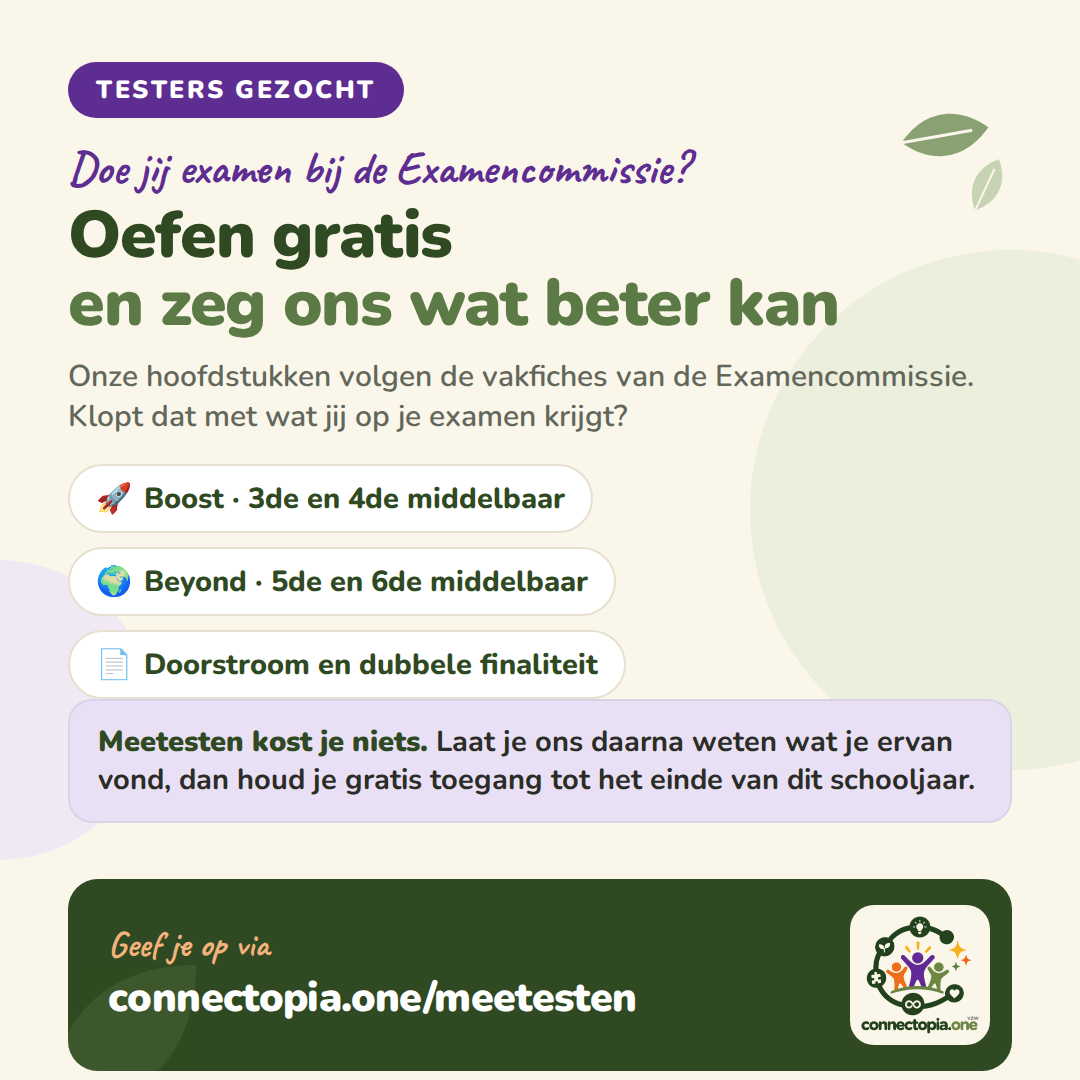
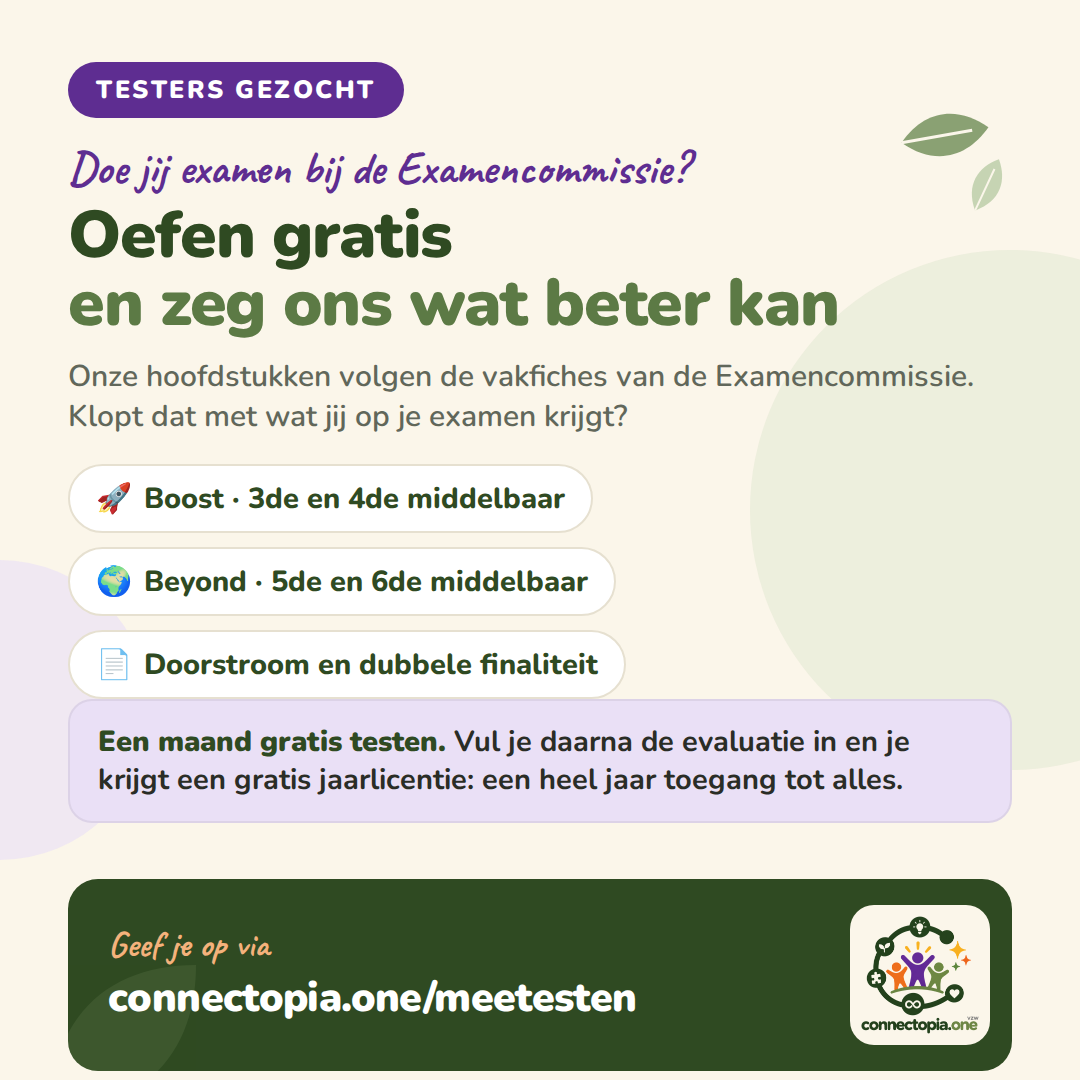
De afspraak voor de testers: een maand testen, dan een jaar gratis
Kim legde vast hoe het verloopt. Je test een maand lang, je vult daarna de
evaluatie in, en dan krijg je een gratis jaarlicentie. Dat staat nu zo op de
twee posts en in de drie stappen op de pagina.

Het kader eronder stond eerst in de ontkenning, "word je niet gekozen". Dat
is nu omgedraaid naar wie meteen alles wil: een jaarlicentie kost 20 euro
zolang we bouwen, vanaf volgend schooljaar 50 euro per gezin voor 1 tot 5
personen, en voor wie tijdelijk onderwijs aan huis geeft een licentie per
leerkracht voor maximaal 5 leerlingen. Er staat een knop bij die rechtstreeks
naar het registratiescherm van het oefenplatform gaat, zodat niemand hoeft
te wachten tot de testers gekozen zijn.

Claude-Session: https://claude.ai/code/session_01RndGgwwLWLzzwjpvUTuHxJ

Changed region(s): [[0.0917, 0.6722, 0.9167, 0.7333]]

diff --git a/website/content/meetesten.ts b/website/content/meetesten.ts
@@ -29,7 +29,7 @@ export const meetesten = {
   titel: "Test ons oefenplatform mee",
   handgeschreven: "Wij bouwen, jij vertelt ons wat er beter kan",
   tekst:
-    "Ons oefenplatform groeit elke week. Gezinnen die thuisonderwijs geven, testen het al. Nu zoeken we er twee groepen bij die de leerstof van een heel andere kant bekijken. Herken je jezelf hieronder? Dan mag je gratis mee testen.",
+    "Ons oefenplatform groeit elke week. Gezinnen die thuisonderwijs geven, testen het al. Nu zoeken we er twee groepen bij die de leerstof van een heel andere kant bekijken. Herken je jezelf hieronder? Dan test je een maand lang gratis mee, en wie daarna de evaluatie invult, krijgt een gratis jaarlicentie.",
 
   groepenTitel: "Wie we erbij zoeken",
   groepen: [
@@ -64,19 +64,47 @@ export const meetesten = {
   stappenTitel: "Zo verloopt het",
   stappen: [
     {
-      titel: "Je krijgt alles open",
+      titel: "Je test een maand lang",
       tekst:
-        "Alle niveaus, alle vakken, de leerbundels en de oefeningen. Je hoeft niets te betalen en er is geen opzeg.",
+        "Een maand lang staat alles voor je open: alle niveaus, alle vakken, de leerbundels en de oefeningen. Je betaalt niets en er is geen opzeg.",
     },
     {
-      titel: "Je laat ons weten wat je denkt",
+      titel: "Je vult de evaluatie in",
       tekst:
-        "Na een paar weken vragen we je kort wat werkt, wat mist en wat beter kan. In een mail of aan de telefoon, wat jij liever hebt.",
+        "Op het einde van die maand vragen we je wat werkt, wat mist en wat beter kan. Je krijgt er een korte vragenlijst voor.",
     },
     {
-      titel: "Je houdt je toegang",
+      titel: "Je krijgt een jaar gratis",
       tekst:
-        "Wie ons zijn ervaring bezorgt, houdt gratis toegang tot het einde van het schooljaar 2026-2027.",
+        "Heb je je evaluatie ingediend, dan krijg je een gratis jaarlicentie. Een heel jaar toegang tot alles, zonder iets te betalen.",
+    },
+  ],
+
+  /*
+    Wie zich opgeeft maar niet gekozen wordt, mag niet met lege handen
+    achterblijven. Daarom staan de prijzen er meteen bij.
+    De tijdelijke prijs van 20 euro staat ook in oefenplatform/lib/prijs.ts;
+    verandert die, pas dan allebei aan.
+  */
+  prijzenTitel: "Wil je nu al alles, en meteen voor een jaar?",
+  prijzenTekst:
+    "Dan hoef je niet te wachten tot we de testers kiezen. Zolang we volop bouwen, koop je een jaarlicentie voor 20 euro. Je maakt zelf een account aan op het oefenplatform en je kan meteen beginnen.",
+  prijzenKnop: {
+    tekst: "Maak een account aan",
+    link: "https://oefenplatform.connectopia.one/registreren",
+  },
+  prijzen: [
+    {
+      titel: "Nu, zolang we bouwen",
+      tekst: "20 euro voor een heel jaar toegang tot alles.",
+    },
+    {
+      titel: "Vanaf volgend schooljaar",
+      tekst: "50 euro per gezin, voor 1 tot 5 personen.",
+    },
+    {
+      titel: "Geef je tijdelijk onderwijs aan huis?",
+      tekst: "Dan is het een licentie per leerkracht, voor maximaal 5 leerlingen.",
     },
   ],
 

diff --git a/website/app/meetesten/page.tsx b/website/app/meetesten/page.tsx
@@ -1,6 +1,6 @@
 import type { Metadata } from "next";
 import { Aanvraagformulier } from "@/components/Aanvraagformulier";
-import { Kaart, PaginaKop, Sectie } from "@/components/ui";
+import { Kaart, Knop, PaginaKop, Sectie } from "@/components/ui";
 import { meetesten, meetestenVelden } from "@/content/meetesten";
 import { site } from "@/content/site";
 
@@ -81,6 +81,31 @@ export default async function MeetestenPagina() {
               <p className="mt-2 text-[16px] text-ink-dim">{stap.tekst}</p>
             </Kaart>
           ))}
+        </div>
+      </Sectie>
+
+      {/* Voor wie niet gekozen wordt: wat het anders kost. */}
+      <Sectie className="py-8">
+        <div className="rounded-[20px] bg-orange-soft px-6 py-5">
+          <h2 className="text-2xl text-orange">{meetesten.prijzenTitel}</h2>
+          <p className="mt-2 max-w-[68ch] text-[16px] text-ink">
+            {meetesten.prijzenTekst}
+          </p>
+          <ul className="mt-4 grid gap-3 sm:grid-cols-3">
+            {meetesten.prijzen.map((prijs) => (
+              <li key={prijs.titel}>
+                <p className="text-[16px] font-extrabold text-green">
+                  {prijs.titel}
+                </p>
+                <p className="text-[15px] text-ink-dim">{prijs.tekst}</p>
+              </li>
+            ))}
+          </ul>
+          <div className="mt-5">
+            <Knop href={meetesten.prijzenKnop.link}>
+              {meetesten.prijzenKnop.tekst}
+            </Knop>
+          </div>
         </div>
       </Sectie>
 

diff --git a/social/posts/bron/posts.js b/social/posts/bron/posts.js
@@ -431,7 +431,7 @@ module.exports = [
       { ic: "📄", tekst: "Doorstroom en dubbele finaliteit" },
     ],
     nadruk:
-      "<b>Meetesten kost je niets.</b> Laat je ons daarna weten wat je ervan vond, dan houd je gratis toegang tot het einde van dit schooljaar.",
+      "<b>Een maand gratis testen.</b> Vul je daarna de evaluatie in en je krijgt een gratis jaarlicentie: een heel jaar toegang tot alles.",
     voet: { hand: "Geef je op via", url: "connectopia.one/meetesten" },
   },
 
@@ -449,7 +449,7 @@ module.exports = [
       { ic: "✍", tekst: "Geen AI in de oefeningen" },
     ],
     nadruk:
-      "<b>Gratis te gebruiken bij je leerlingen.</b> Vertel ons daarna wat je ervan vond en het blijft gratis tot het einde van dit schooljaar.",
+      "<b>Een maand gratis bij je leerlingen.</b> Vul je daarna de evaluatie in en je krijgt een gratis jaarlicentie, voor maximaal 5 leerlingen.",
     voet: { hand: "Geef je op via", url: "connectopia.one/meetesten" },
   },
 ];
